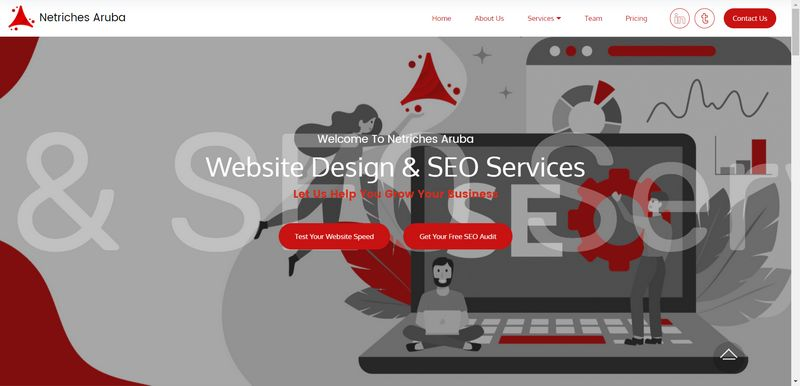
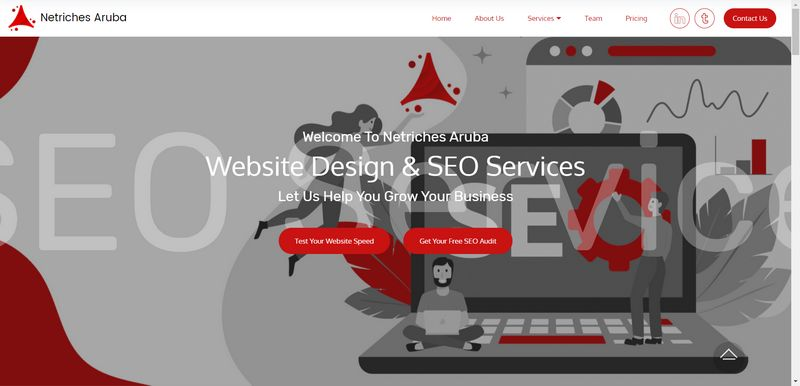
Website Design & SEO Services Dec 2020

diff --git a/netrichesaruba-SEO-faqs.html b/netrichesaruba-SEO-faqs.html
@@ -163,7 +163,7 @@ Dynamic sites use server side languages to process requests at the time it’s m
             <div class="section-text m-2">
                 <p class="mbr-text mbr-black mb-0 mbr-fonts-style display-7">© Copyright 2020 Netriches Aruba</p>
             </div>
-            
+            <div class="mbr-section-btn align-center"><a href="https://mobirise.com" class="btn btn-black display-4">Let's try it!</a></div>
         </div>
     </div>
 </section>
@@ -209,16 +209,16 @@ Dynamic sites use server side languages to process requests at the time it’s m
         <div class="row justify-content-center pt-4">
             <div class="col-md-10 col-lg-8 content-block">
             <div class="accordion-content">
-                <div id="bootstrap-accordion_3" class="panel-group accordionStyles accordion " role="tablist" aria-multiselectable="true">
+                <div id="bootstrap-accordion_62" class="panel-group accordionStyles accordion " role="tablist" aria-multiselectable="true">
                         <div class="card">
                             <div class="card-header" role="tab" id="headingOne">
-                                <a role="button" class="collapsed panel-title text-white" data-toggle="collapse" data-core="" href="#collapse1_3" aria-expanded="false" aria-controls="collapse1">
+                                <a role="button" class="collapsed panel-title text-white" data-toggle="collapse" data-core="" href="#collapse1_62" aria-expanded="false" aria-controls="collapse1">
                                     <h4 class="mbr-fonts-style header-text display-5">Why is search engine optimization important to a business?</h4>
                                     <span class="sign mbr-iconfont mbri-arrow-down inactive"></span>
 
                                 </a>
                             </div>
-                            <div id="collapse1_3" class="panel-collapse noScroll collapse" role="tabpanel" aria-labelledby="headingOne" data-parent="#bootstrap-accordion_3">
+                            <div id="collapse1_62" class="panel-collapse noScroll collapse" role="tabpanel" aria-labelledby="headingOne" data-parent="#bootstrap-accordion_62">
                                 <div class="panel-body p-4">
                                     <p class="mbr-fonts-style panel-text mbr-text display-7"><strong>
                                        Search engine optimization (SEO) is important because: </strong>SEO (Search engine optimization) is the process of making a web page easy to find, easy to crawl, and easy to categorize. SEO is good for the social promotion of your web site.<br><br>Consumers today live in a digital world. According to Accenture, an estimated 94% of B2B buyers say that they search online before making a purchase. Brands that do not take the initiative to leverage and understand the importance of SEO will be left behind and miss out on a great deal of value they could be adding to their business.<br></p>
@@ -228,13 +228,13 @@ Dynamic sites use server side languages to process requests at the time it’s m
                 
                         <div class="card">
                             <div class="card-header" role="tab" id="headingTwo">
-                                <a role="button" class="collapsed panel-title text-white" data-toggle="collapse" data-core="" href="#collapse2_3" aria-expanded="false" aria-controls="collapse2">
+                                <a role="button" class="collapsed panel-title text-white" data-toggle="collapse" data-core="" href="#collapse2_62" aria-expanded="false" aria-controls="collapse2">
                                     <h4 class="mbr-fonts-style header-text display-5">What is the SEO in marketing? &nbsp; &nbsp; &nbsp; &nbsp; &nbsp; &nbsp; &nbsp; &nbsp; &nbsp; &nbsp; &nbsp; &nbsp; &nbsp; &nbsp; &nbsp; &nbsp; &nbsp; &nbsp;&nbsp;</h4>
                                     <span class="sign mbr-iconfont mbri-arrow-down inactive"></span>
                                 </a>
                                 
                             </div>
-                            <div id="collapse2_3" class="panel-collapse noScroll collapse" role="tabpanel" aria-labelledby="headingTwo" data-parent="#bootstrap-accordion_3">
+                            <div id="collapse2_62" class="panel-collapse noScroll collapse" role="tabpanel" aria-labelledby="headingTwo" data-parent="#bootstrap-accordion_62">
                                 <div class="panel-body p-4">
                                     <p class="mbr-fonts-style panel-text mbr-text display-7"><strong>
                                        SEO </strong>is an integral part of any <strong>Digital Marketing Strategy</strong>. It is basically concerned with a holistic move towards driving customers to your business via online platforms. Digital marketing is sending out the name of your products or services to the targeted audience through the digital medium through paid promotions. Digital marketing has gone through many stages, and now we are here where merely social media occupy almost 80 to 85 percent of the digital marketing.</p>
@@ -244,13 +244,13 @@ Dynamic sites use server side languages to process requests at the time it’s m
                 
                         <div class="card">
                             <div class="card-header" role="tab" id="headingThree">
-                                <a role="button" class="collapsed panel-title text-white" data-toggle="collapse" data-core="" href="#collapse3_3" aria-expanded="false" aria-controls="collapse3">
+                                <a role="button" class="collapsed panel-title text-white" data-toggle="collapse" data-core="" href="#collapse3_62" aria-expanded="false" aria-controls="collapse3">
                                     <h4 class="mbr-fonts-style header-text display-5">Design and Web Development?</h4>
                                     <span class="sign mbr-iconfont mbri-arrow-down inactive"></span>
 
                                 </a>
                             </div>
-                            <div id="collapse3_3" class="panel-collapse noScroll collapse" role="tabpanel" aria-labelledby="headingThree" data-parent="#bootstrap-accordion_3">
+                            <div id="collapse3_62" class="panel-collapse noScroll collapse" role="tabpanel" aria-labelledby="headingThree" data-parent="#bootstrap-accordion_62">
                                 <div class="panel-body p-4">
                                     <p class="mbr-fonts-style panel-text mbr-text display-7"><strong>Developers</strong> build a website’s core structure using coding languages, while <strong>Designers</strong> are more visually creative and user-focused. Developers use their programming knowledge to breathe life into the designer’s creative vision. Think of developers as construction workers, and web designers as architects – both necessary, but different, skill sets.</p>
                                 </div>
@@ -259,13 +259,13 @@ Dynamic sites use server side languages to process requests at the time it’s m
                 
                         <div class="card">
                             <div class="card-header" role="tab" id="headingFour">
-                                <a role="button" class="collapsed panel-title text-white" data-toggle="collapse" data-core="" href="#collapse4_3" aria-expanded="false" aria-controls="collapse4">
+                                <a role="button" class="collapsed panel-title text-white" data-toggle="collapse" data-core="" href="#collapse4_62" aria-expanded="false" aria-controls="collapse4">
                                     <h4 class="mbr-fonts-style header-text display-5">Static vs Dynamic Website Design? &nbsp; &nbsp; &nbsp; &nbsp; &nbsp; &nbsp; &nbsp; &nbsp; &nbsp; &nbsp; &nbsp; &nbsp; &nbsp; &nbsp; &nbsp; &nbsp; &nbsp;&nbsp;</h4>
                                     <span class="sign mbr-iconfont mbri-arrow-down inactive"></span>
 
                                 </a>
                             </div>
-                            <div id="collapse4_3" class="panel-collapse noScroll collapse" role="tabpanel" aria-labelledby="headingFour" data-parent="#bootstrap-accordion_3">
+                            <div id="collapse4_62" class="panel-collapse noScroll collapse" role="tabpanel" aria-labelledby="headingFour" data-parent="#bootstrap-accordion_62">
                                 <div class="panel-body p-4">
                                     <p class="mbr-fonts-style panel-text mbr-text display-7">With <strong>static websites</strong>, the individual web pages are shown to the user as they are stored. In the case of the CLT website, we use a so-called Static Site Generator to build these static pages. Simply put, the static site generator is a program that converts source files into web pages. These source files are templates that are enriched with data by the static site generator. This data can be retrieved through an API from a third party during this process if necessary.<br><br><strong>Dynamic sites</strong> use server side languages to process requests at the time it’s made and generate a page and its contents in real-time. This means that dynamic websites interact with the user accessing the site and render content depending on the user’s actions or settings. One example of a dynamic website is web apps. Take Twitter as an example: when you log in, it displays content just for you.</p>
                                 </div>
@@ -274,13 +274,13 @@ Dynamic sites use server side languages to process requests at the time it’s m
                 
                         <div class="card">
                             <div class="card-header" role="tab" id="headingFive">
-                                <a role="button" class="collapsed panel-title text-white" data-toggle="collapse" data-core="" href="#collapse5_3" aria-expanded="false" aria-controls="collapse5">
+                                <a role="button" class="collapsed panel-title text-white" data-toggle="collapse" data-core="" href="#collapse5_62" aria-expanded="false" aria-controls="collapse5">
                                     <h4 class="mbr-fonts-style header-text display-5">What is a website audit and why do I need one?</h4>
                                     <span class="sign mbr-iconfont mbri-arrow-down inactive"></span>
 
                                 </a>
                             </div>
-                            <div id="collapse5_3" class="panel-collapse noScroll collapse" data-parent="#bootstrap-accordion_3" role="tabpanel" aria-labelledby="headingFive">
+                            <div id="collapse5_62" class="panel-collapse noScroll collapse" data-parent="#bootstrap-accordion_62" role="tabpanel" aria-labelledby="headingFive">
                                 <div class="panel-body p-4">
                                     <p class="mbr-fonts-style panel-text mbr-text display-7">
                                        If you already have a website and are ready to improve its search engine visibility, then a website audit (or “<strong>site audit</strong>”) is a good starting point. An SEO audit is standard procedure for any website. In fact, if you are serious about your<strong> internet business</strong>, you will make sure you do it frequently. An SEO audit is the process of analyzing how well your web presence relates to best practices. It is the first step to creating an implementation plan that will have measurable results on website structure issues. On-page SEO issues. Potential off-site problems. User experience issues.</p>

diff --git a/index.html b/index.html
@@ -12,49 +12,7 @@
   <meta name="viewport" content="width=device-width, initial-scale=1, minimum-scale=1">
   <link rel="shortcut icon" href="assets/images/netriches-aruba-fav-logo-57x54-57x54.png" type="image/x-icon">
   <meta name="description" content="Netriches Aruba Affordable Search Engine Optimization Services. We are an Organic SEO Company based in Aruba. We Specialise in Responsive Web Design and SEO Solutions. Contact us today.">
-
-<script type="application/ld+json">
-{
-  "@context": "https://schema.org/", 
-  "@type": "BreadcrumbList", 
-  "itemListElement": [{
-    "@type": "ListItem", 
-    "position": 1, 
-    "name": "Netriches Aruba - SEO & Web Design Company",
-    "item": "https://netrichesaruba.ga/"  
-  },{
-    "@type": "ListItem", 
-    "position": 2, 
-    "name": "Website Design Services",
-    "item": "https://netrichesaruba.ga/web-design-netriches-aruba"  
-  },{
-    "@type": "ListItem", 
-    "position": 3, 
-    "name": "Search Engine Optimization",
-    "item": "https://netrichesaruba.ga/seo-services-netriches-aruba"  
-  },{
-    "@type": "ListItem", 
-    "position": 4, 
-    "name": "Online marketing Services",
-    "item": "https://netrichesaruba.ga/online-marketing-netriches-aruba"  
-  },{
-    "@type": "ListItem", 
-    "position": 5, 
-    "name": "Starter Static Website Design",
-    "item": "https://netrichesaruba.ga/static-website-design"  
-  },{
-    "@type": "ListItem", 
-    "position": 6, 
-    "name": "Professional Static Website Design",
-    "item": "https://netrichesaruba.ga/pro-static-website-design"  
-  },{
-    "@type": "ListItem", 
-    "position": 7, 
-    "name": "Dynamic Website Design",
-    "item": "https://netrichesaruba.ga/dynamic-website-design"  
-  }]
-}
-</script>  
+  
   
   <title>Netriches Aruba - Website Design and SEO Services</title>
   <link rel="stylesheet" href="assets/icons-mind/style.css">
@@ -261,11 +219,11 @@
     <div class="container">
         <div class="row justify-content-center">
             <div class="col-md-10 col-lg-8 align-center mbr-white">
-                <h4 class="mbr-section-title mbr-fonts-style display-5">Welcome To Netriches Aruba</h4>
+                <h4 class="mbr-section-title mbr-fonts-style display-2">Welcome To Netriches Aruba</h4>
                 <h1 class="mbr-section-title mbr-bold mbr-fonts-style display-1"><span style="font-weight: normal;">Website Design &amp; SEO Services</span></h1>
-                <p class="mbr-text pb-3 mbr-fonts-style display-5"><strong>
+                <p class="mbr-text pb-3 mbr-fonts-style display-2">
                     Let Us Help You Grow Your Business
-                </strong></p>
+                </p>
                 <div class="mbr-section-btn"><a class="btn btn-lg btn-secondary display-4" type="submit" href="https://testmysite.io/">Test Your Website Speed<br></a> <a class="btn btn-lg btn-secondary display-4" type="submit" href="https://www.seocheck.io/">Get Your Free SEO Audit</a></div>
             </div>
         </div>
@@ -638,7 +596,7 @@
                 <h4 class="mbr-fonts-style mbr-name align-left pt-4 mbr-bold display-5">Juny Engelhart</h4>
                 <h5 class="mbr-fonts-style mbr-role align-left pt-2 display-4"><strong>Head of development</strong></h5>
                 <p class="mbr-fonts-style mbr-text align-left pt-1 display-7">
-                      I’m a web consultant with more than 5 years of experience in web analytics and technical SEO. My focus is on helping companies analyze and optimize their website to increase leads.</p>
+                      I’m a Website Designer with more than 5 years of experience in Web Design and SEO Services. My focus is on helping Small businesses in Aruba analyze and optimize their website to increase online sales, and leads to repeat customers.</p>
             </div>
             
         </div>
@@ -912,7 +870,7 @@
             <div class="form-1 col-sm-12 col-md-5 col-xl-4 col-lg-3" data-form-type="formoid">
                 <h3 class="form-title pb-3 mbr-fonts-style align-center display-7">Feel free to reach out to us, we would be happy to discuss your SEO goals and what could be best for your website.</h3>
                 <div data-form-alert="" hidden="">Thank you for requesting a website audit. Your request has been submitted to our team successfully.</div>
[2 lines of base64/hex data omitted]
                     <div class="input-wrap" data-for="name">
                         <input type="text" class="field display-7" name="name" placeholder="Name" data-form-field="Name" required="" id="name-footer4-0">
                     </div>
@@ -985,7 +943,7 @@
             <div class="section-text m-2">
                 <p class="mbr-text mbr-black mb-0 mbr-fonts-style display-7">© Copyright 2020 Netriches Aruba</p>
             </div>
-            
+            <div class="mbr-section-btn align-center"><a href="https://mobirise.com" class="btn btn-black display-4">Let's try it!</a></div>
         </div>
     </div>
 </section>

diff --git a/dynamic-website-design.html b/dynamic-website-design.html
@@ -178,7 +178,7 @@
             <div class="section-text m-2">
                 <p class="mbr-text mbr-black mb-0 mbr-fonts-style display-7">© Copyright 2020 Netriches Aruba</p>
             </div>
-            
+            <div class="mbr-section-btn align-center"><a href="https://mobirise.com" class="btn btn-black display-4">Let's try it!</a></div>
         </div>
     </div>
 </section>

diff --git a/online-marketing-netriches-aruba.html b/online-marketing-netriches-aruba.html
@@ -209,7 +209,7 @@
             <div class="section-text m-2">
                 <p class="mbr-text mbr-black mb-0 mbr-fonts-style display-7">© Copyright 2020 Netriches Aruba</p>
             </div>
-            
+            <div class="mbr-section-btn align-center"><a href="https://mobirise.com" class="btn btn-black display-4">Let's try it!</a></div>
         </div>
     </div>
 </section>

diff --git a/pro-static-website-design.html b/pro-static-website-design.html
@@ -179,7 +179,7 @@
             <div class="section-text m-2">
                 <p class="mbr-text mbr-black mb-0 mbr-fonts-style display-7">© Copyright 2020 Netriches Aruba</p>
             </div>
-            
+            <div class="mbr-section-btn align-center"><a href="https://mobirise.com" class="btn btn-black display-4">Let's try it!</a></div>
         </div>
     </div>
 </section>

diff --git a/seo-services-netriches-aruba.html b/seo-services-netriches-aruba.html
@@ -341,7 +341,7 @@
             <div class="section-text m-2">
                 <p class="mbr-text mbr-black mb-0 mbr-fonts-style display-7">© Copyright 2020 Netriches Aruba</p>
             </div>
-            
+            <div class="mbr-section-btn align-center"><a href="https://mobirise.com" class="btn btn-black display-4">Let's try it!</a></div>
         </div>
     </div>
 </section>

diff --git a/static-website-design.html b/static-website-design.html
@@ -179,7 +179,7 @@
             <div class="section-text m-2">
                 <p class="mbr-text mbr-black mb-0 mbr-fonts-style display-7">© Copyright 2020 Netriches Aruba</p>
             </div>
-            
+            <div class="mbr-section-btn align-center"><a href="https://mobirise.com" class="btn btn-black display-4">Let's try it!</a></div>
         </div>
     </div>
 </section>

diff --git a/web-design-netriches-aruba.html b/web-design-netriches-aruba.html
@@ -278,7 +278,7 @@
             <div class="section-text m-2">
                 <p class="mbr-text mbr-black mb-0 mbr-fonts-style display-7">© Copyright 2020 Netriches Aruba</p>
             </div>
-            
+            <div class="mbr-section-btn align-center"><a href="https://mobirise.com" class="btn btn-black display-4">Let's try it!</a></div>
         </div>
     </div>
 </section>
